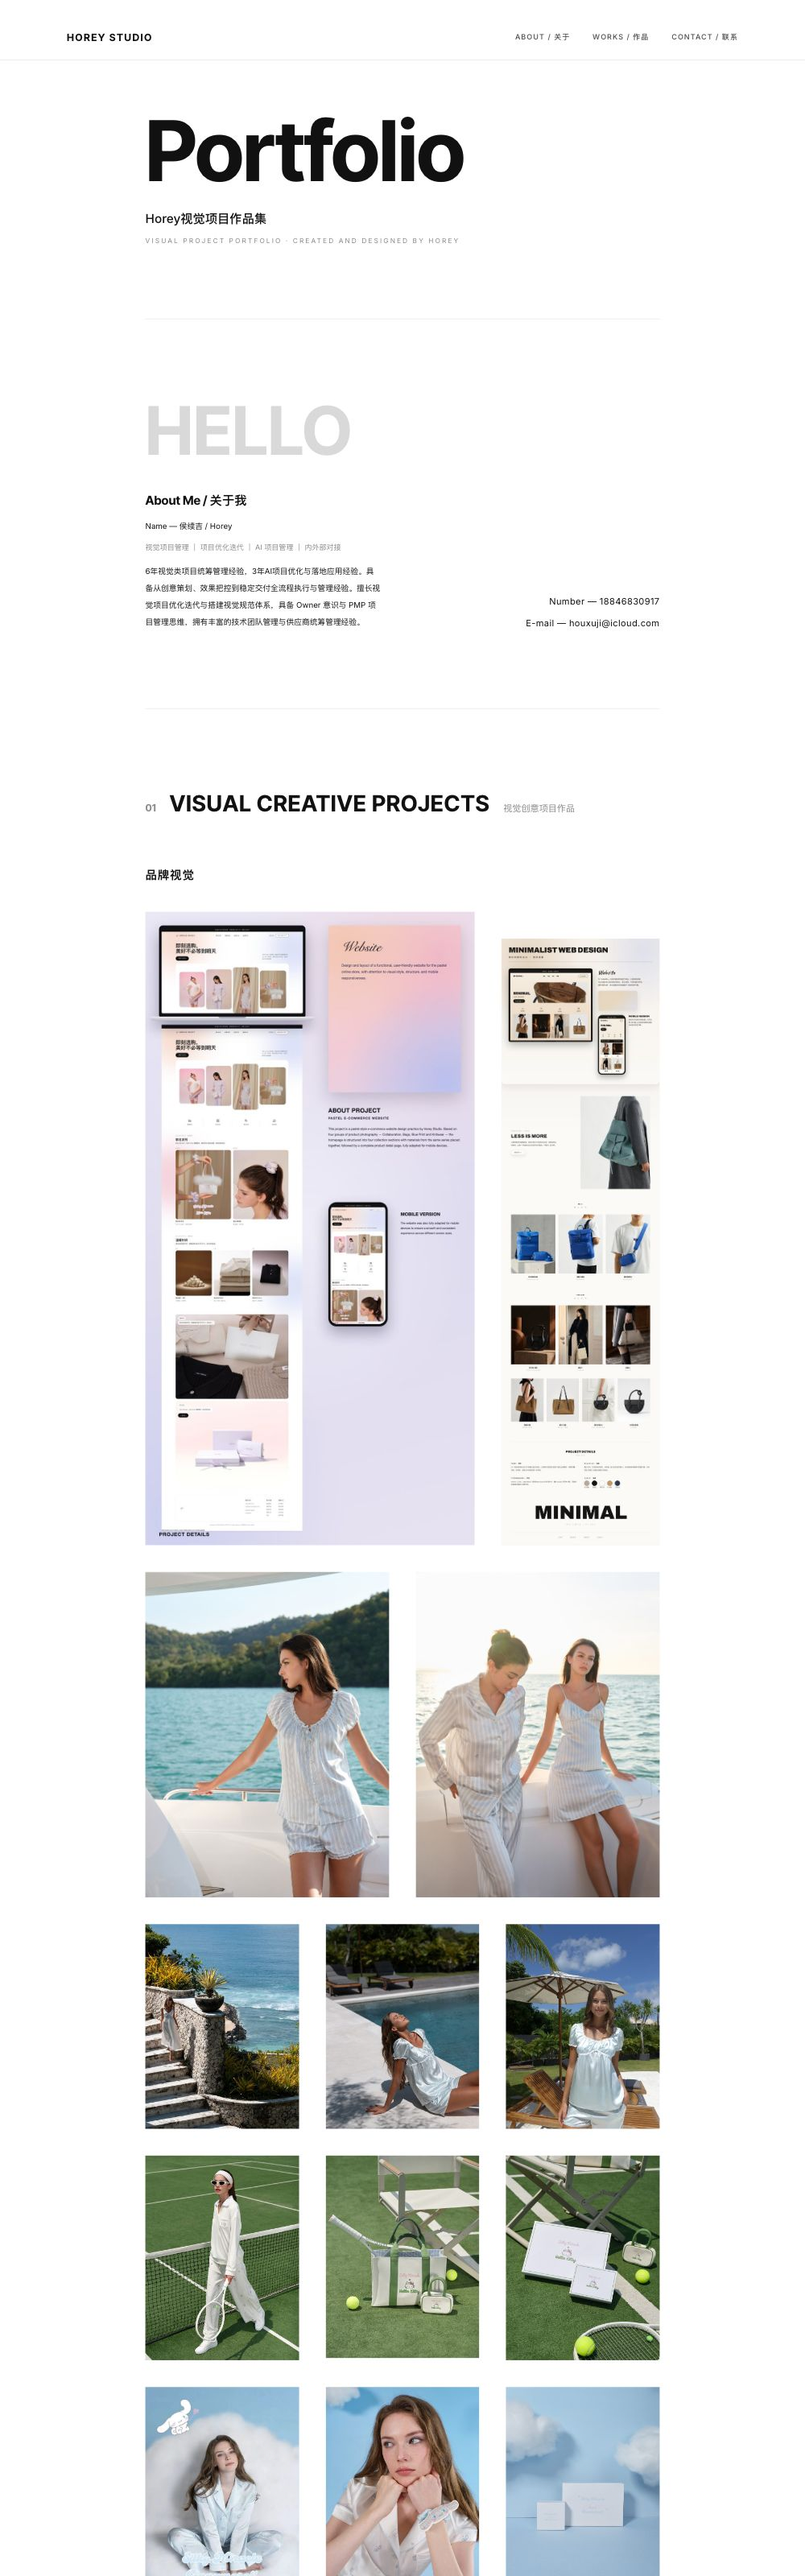
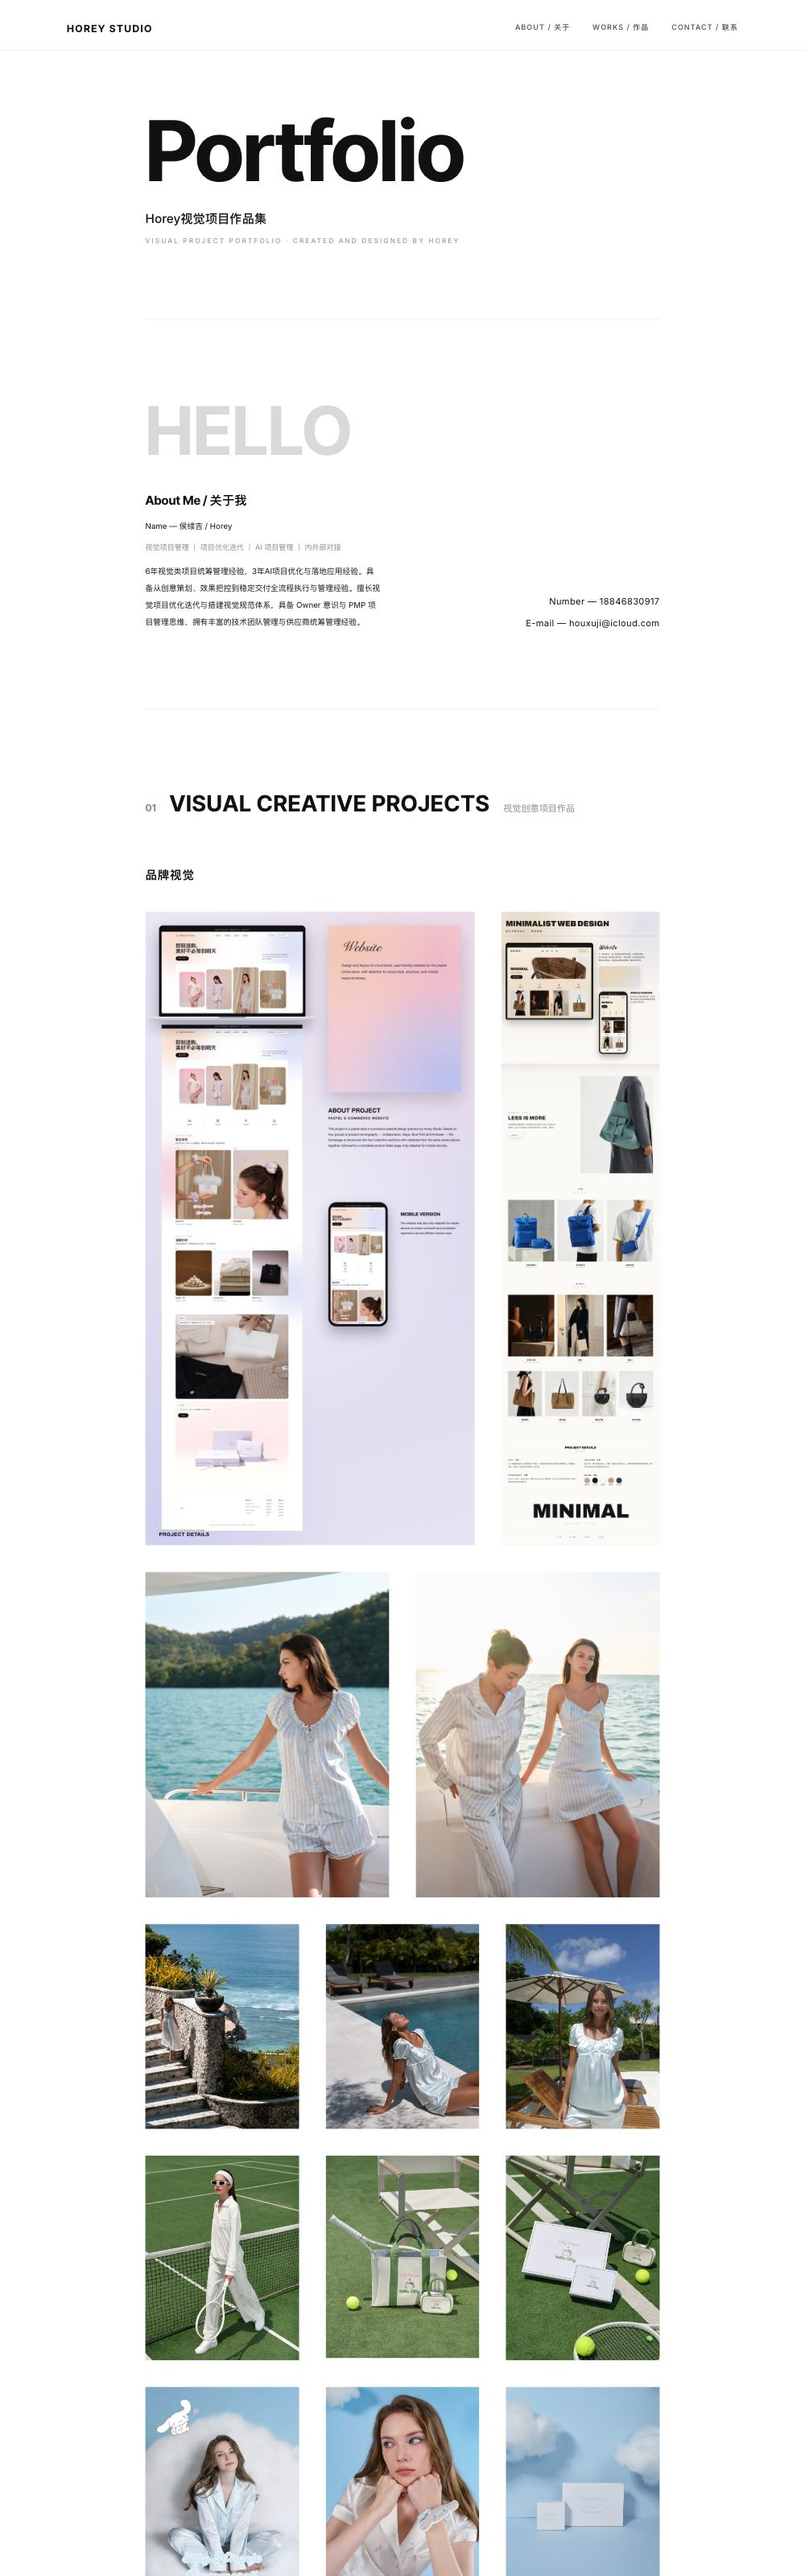
品牌视觉两长图stretch等高上下对齐

Changed region(s): [[0.62, 0.3438, 0.837, 0.5938], [0.155, 0.0, 0.186, 0.0312], [0.093, 0.0, 0.124, 0.0312]]

diff --git a/index.html b/index.html
@@ -57,7 +57,9 @@ a{color:inherit;text-decoration:none}
 .r-1-1 .it{flex:1 1 calc(50% - var(--row-gap)/2)}
 .r-1-2 .it:first-child{flex:1 1 calc(33.33% - var(--row-gap))}
 .r-1-2 .it:last-child{flex:1 1 calc(66.66% - var(--row-gap))}
-.r-brand{align-items:flex-end}
+.r-brand{align-items:stretch}
+.r-brand .it{display:flex}
+.r-brand .it img{width:100%;height:100%;object-fit:cover}
 .r-brand .it:first-child{flex:1 1 calc(66.66% - var(--row-gap))}
 .r-brand .it:last-child{flex:1 1 calc(33.33% - var(--row-gap))}
 .r-asym .it:first-child{flex:1 1 calc(33.33% - var(--row-gap))}
